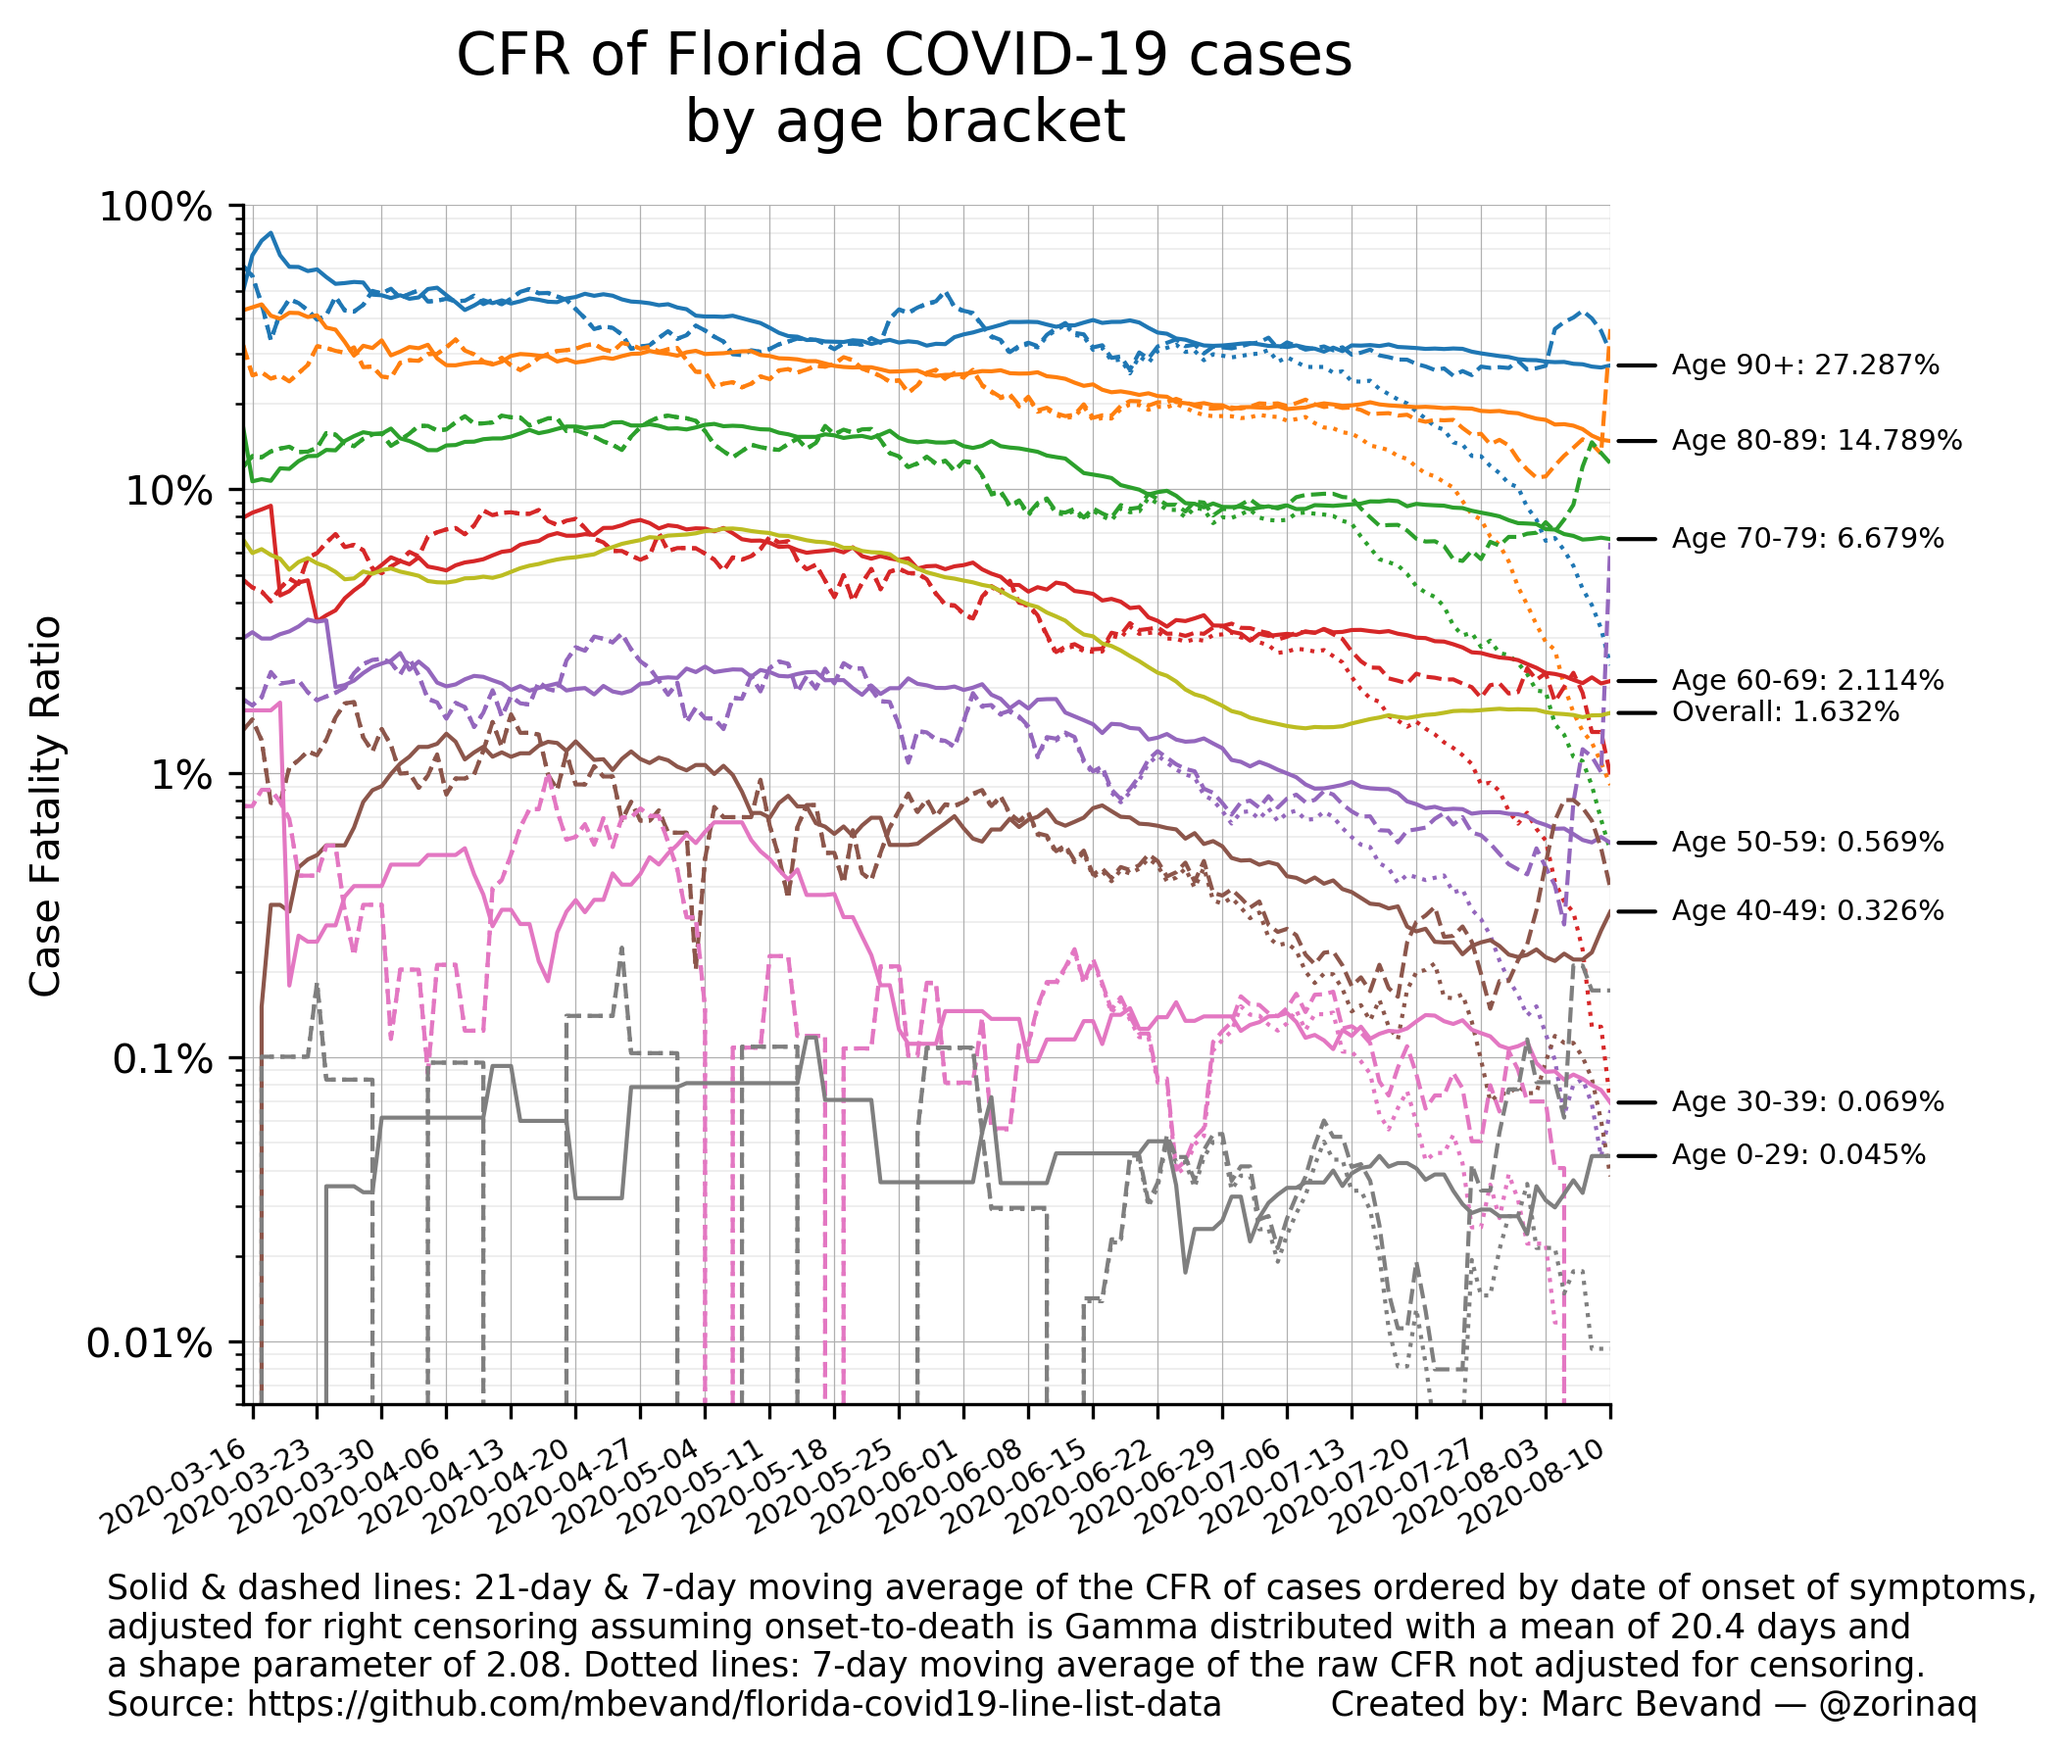
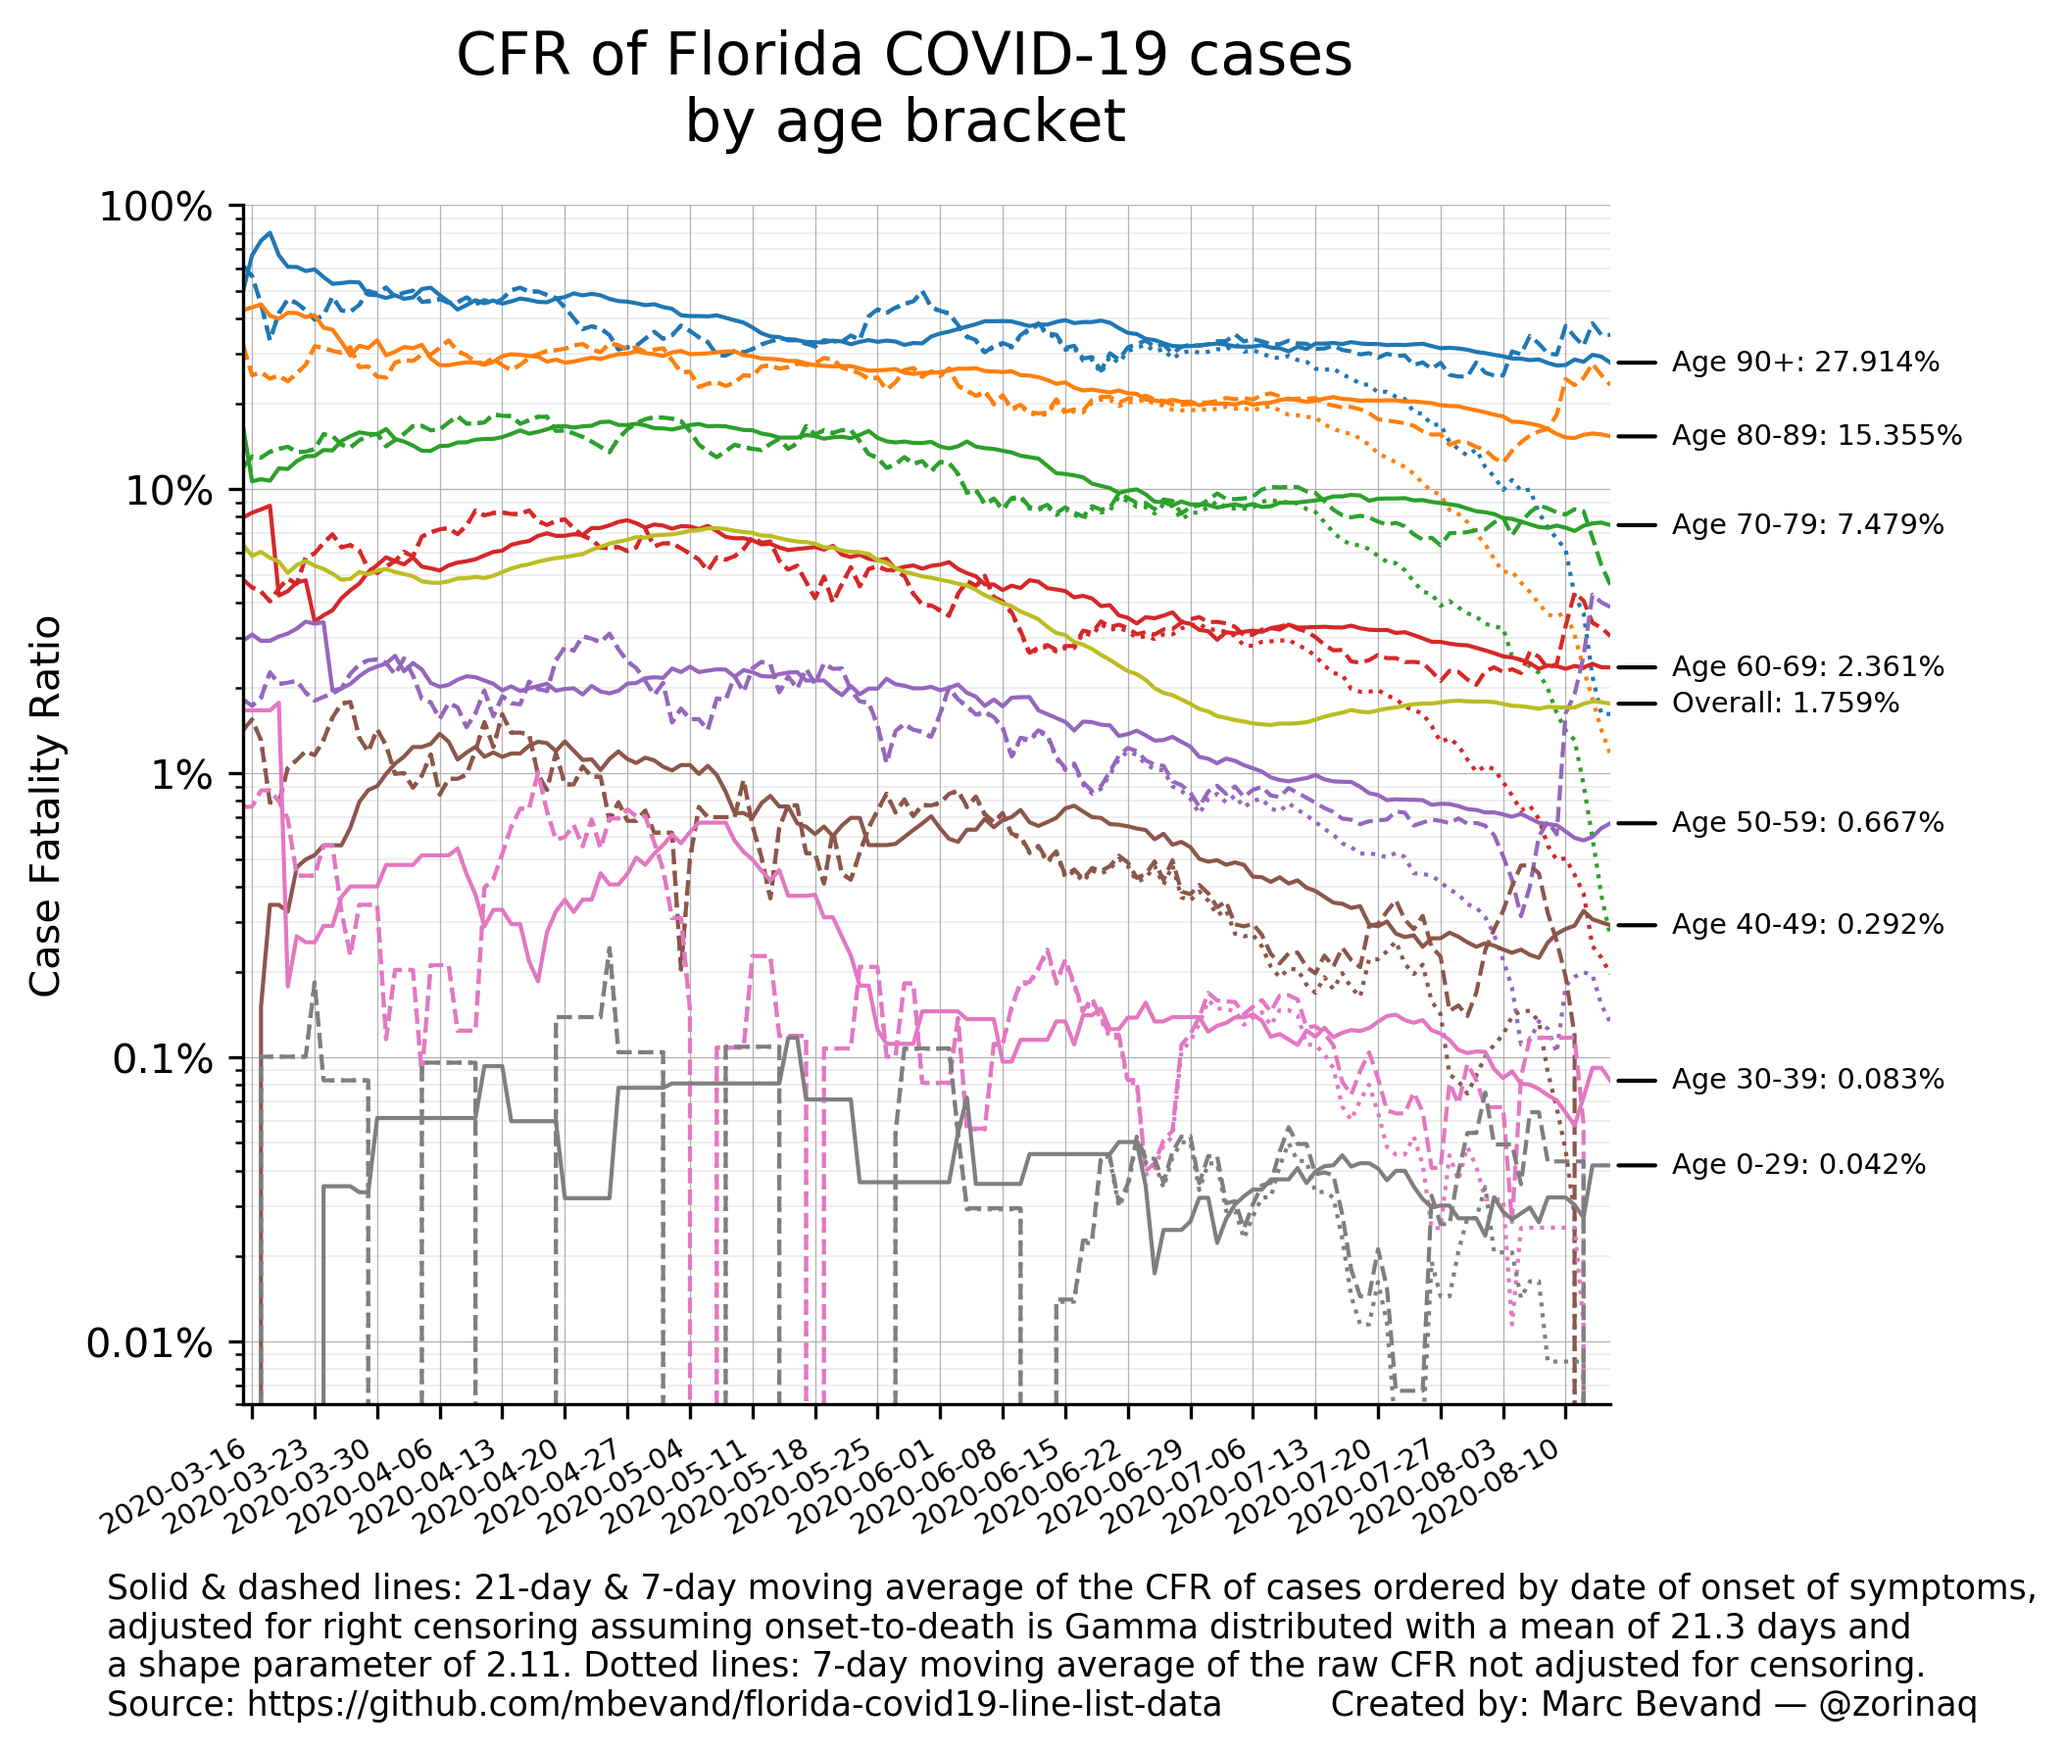
update age-stratified CFRs

diff --git a/forecast_deaths.py b/forecast_deaths.py
@@ -108,15 +108,15 @@ cfr_models = [
         CFRModel(
             '5',
             'Our CFR calculated on the Florida line list (age_stratified_cfr.py)',
-            1.632 / 100, {
-                (0, 29):  0.045 / 100,
-                (30, 39): 0.069 / 100,
-                (40, 49): 0.326 / 100,
-                (50, 59): 0.569 / 100,
-                (60, 69): 2.114 / 100,
-                (70, 79): 6.679 / 100,
-                (80, 89): 14.789 / 100,
-                (90, 199): 27.287 / 100,
+            1.759 / 100, {
+                (0, 29):  0.042 / 100,
+                (30, 39): 0.083 / 100,
+                (40, 49): 0.292 / 100,
+                (50, 59): 0.667 / 100,
+                (60, 69): 2.361 / 100,
+                (70, 79): 7.479 / 100,
+                (80, 89): 15.355 / 100,
+                (90, 199): 27.914 / 100,
                 }
             ),
         ]
